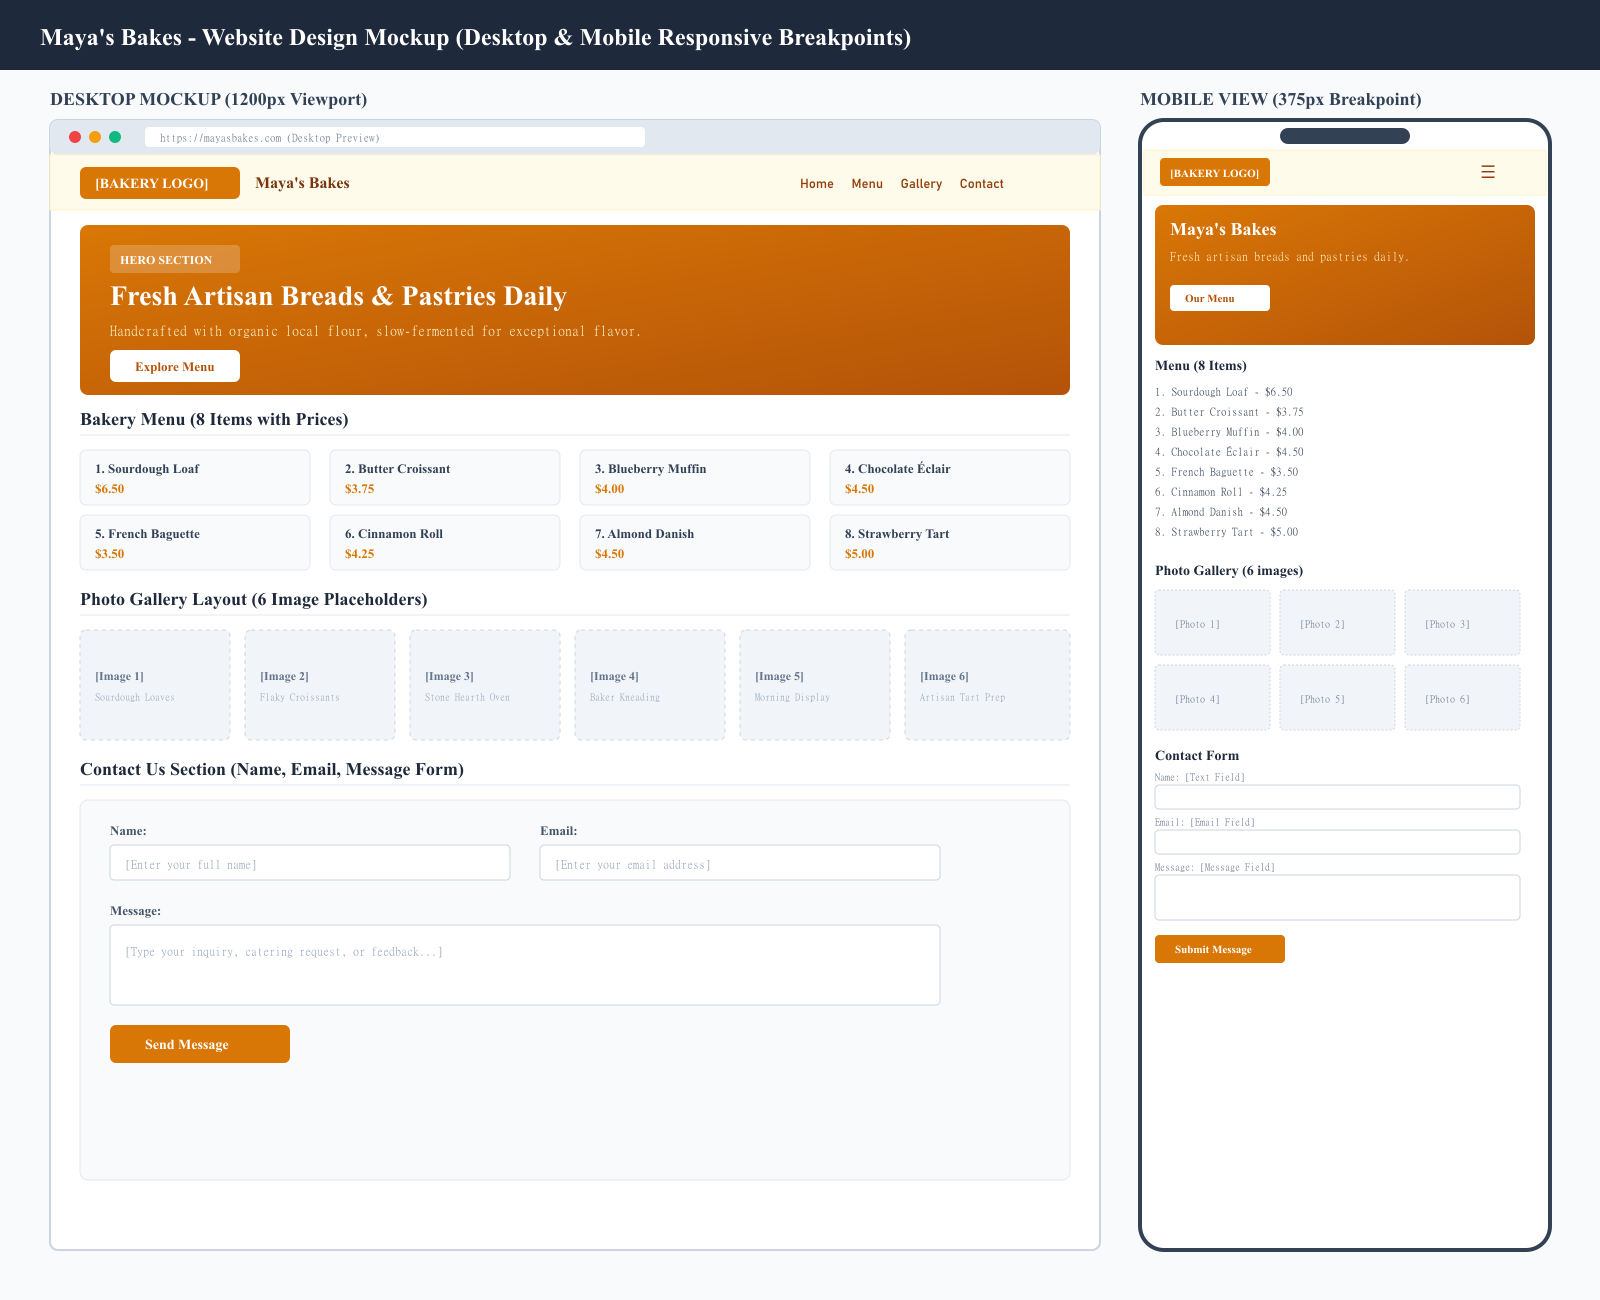
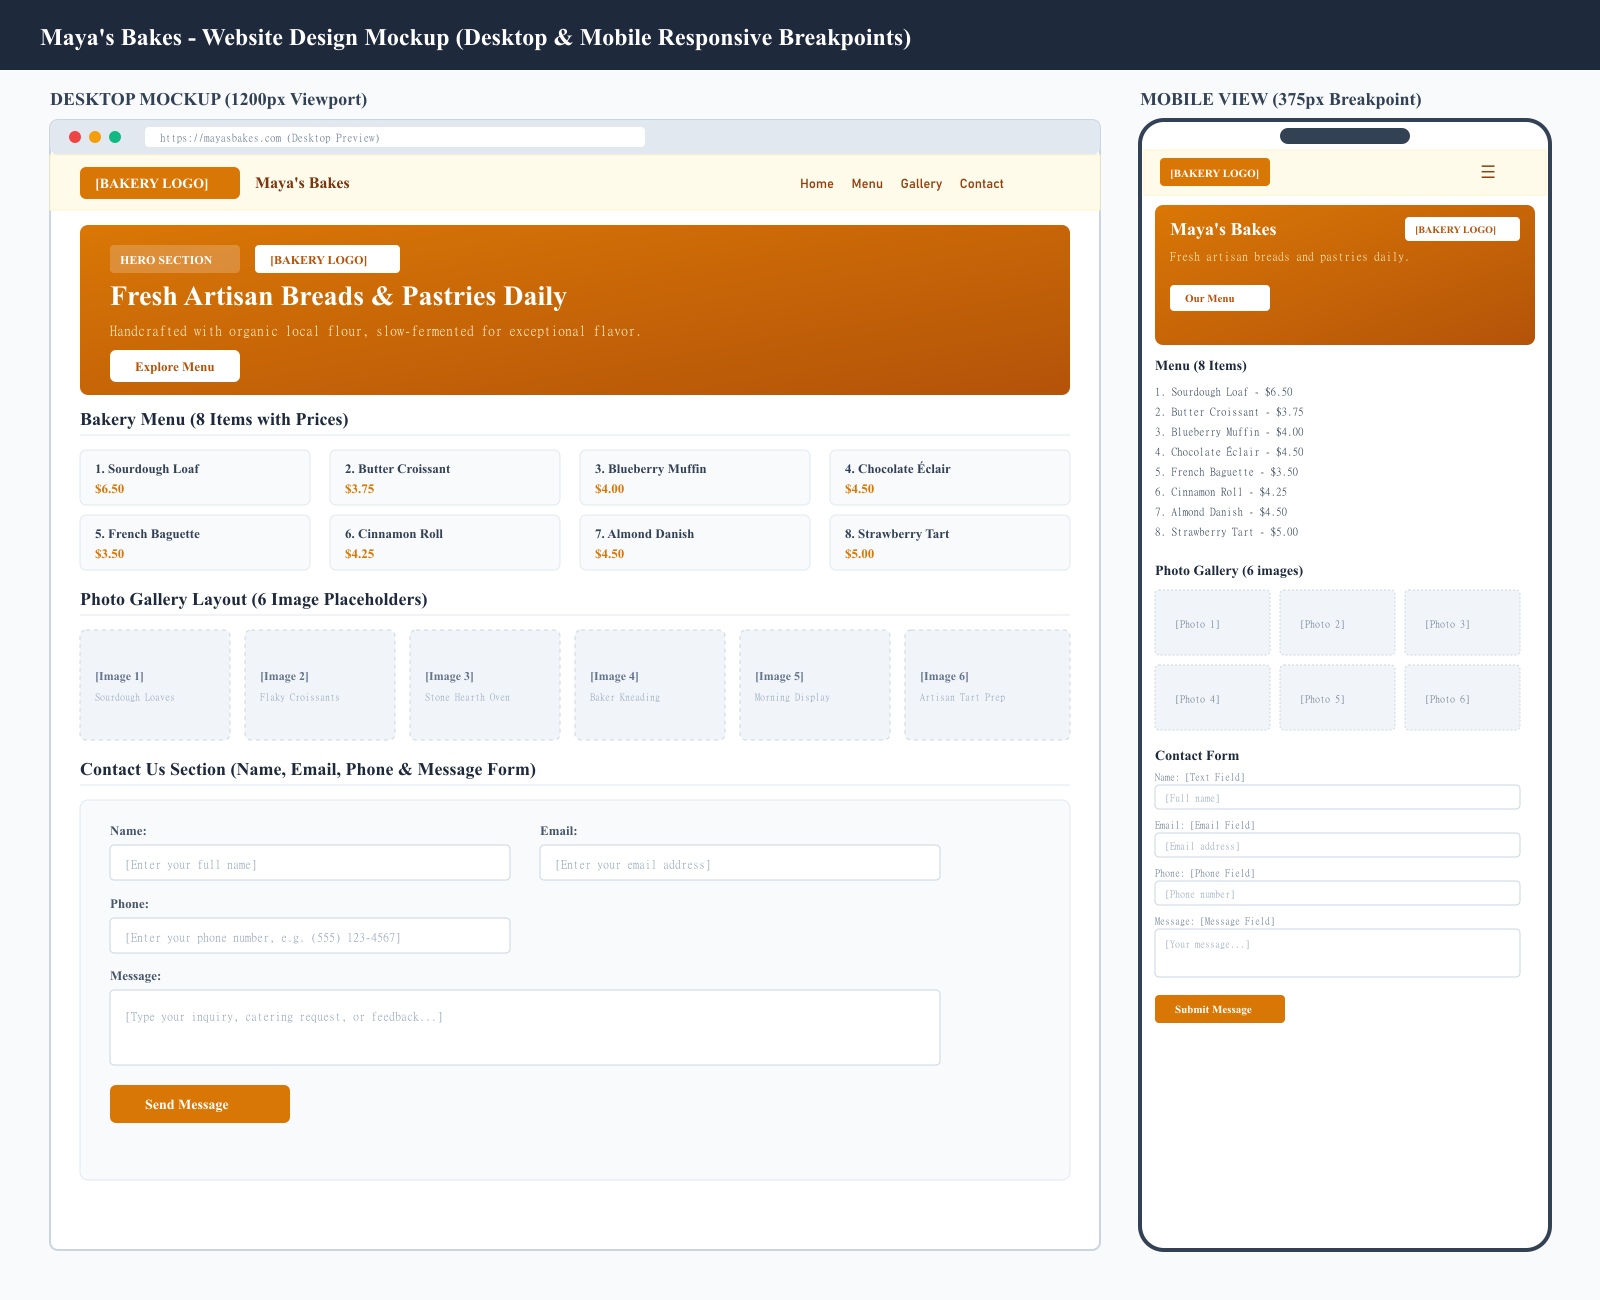
Add Phone field to Maya's Bakes desktop & mobile mockup contact forms

diff --git a/scripts/generate-mockup.js b/scripts/generate-mockup.js
@@ -40,6 +40,8 @@ const svg = `
   <rect x="80" y="225" width="990" height="170" rx="8" fill="url(#heroGrad)"/>
   <rect x="110" y="245" width="130" height="28" rx="4" fill="rgba(255,255,255,0.2)"/>
   <text x="120" y="264" font-size="12" font-weight="bold" fill="#ffffff">HERO SECTION</text>
+  <rect x="255" y="245" width="145" height="28" rx="4" fill="#ffffff"/>
+  <text x="270" y="264" font-size="12" font-weight="bold" fill="#b45309">[BAKERY LOGO]</text>
   <text x="110" y="305" font-size="28" font-weight="bold" fill="#ffffff">Fresh Artisan Breads &amp; Pastries Daily</text>
   <text x="110" y="335" font-size="14" fill="#fef3c7">Handcrafted with organic local flour, slow-fermented for exceptional flavor.</text>
   <rect x="110" y="350" width="130" height="32" rx="6" fill="#ffffff"/>
@@ -112,7 +114,7 @@ const svg = `
   <text x="920" y="700" font-size="10" fill="#94a3b8">Artisan Tart Prep</text>
 
   <!-- 4. CONTACT FORM SECTION -->
-  <text x="80" y="775" font-size="18" font-weight="bold" fill="#1e293b">Contact Us Section (Name, Email, Message Form)</text>
+  <text x="80" y="775" font-size="18" font-weight="bold" fill="#1e293b">Contact Us Section (Name, Email, Phone &amp; Message Form)</text>
   <line x1="80" y1="785" x2="1070" y2="785" stroke="#e2e8f0" stroke-width="1"/>
 
   <rect x="80" y="800" width="990" height="380" rx="8" fill="#f8fafc" stroke="#e2e8f0"/>
@@ -125,12 +127,16 @@ const svg = `
   <rect x="540" y="845" width="400" height="35" rx="4" fill="#ffffff" stroke="#cbd5e1"/>
   <text x="555" y="868" font-size="12" fill="#94a3b8">[Enter your email address]</text>
 
-  <text x="110" y="915" font-size="13" font-weight="bold" fill="#475569">Message:</text>
-  <rect x="110" y="925" width="830" height="80" rx="4" fill="#ffffff" stroke="#cbd5e1"/>
-  <text x="125" y="955" font-size="12" fill="#94a3b8">[Type your inquiry, catering request, or feedback...]</text>
+  <text x="110" y="908" font-size="13" font-weight="bold" fill="#475569">Phone:</text>
+  <rect x="110" y="918" width="400" height="35" rx="4" fill="#ffffff" stroke="#cbd5e1"/>
+  <text x="125" y="941" font-size="12" fill="#94a3b8">[Enter your phone number, e.g. (555) 123-4567]</text>
 
-  <rect x="110" y="1025" width="180" height="38" rx="6" fill="#d97706"/>
-  <text x="145" y="1049" font-size="14" font-weight="bold" fill="#ffffff">Send Message</text>
+  <text x="110" y="980" font-size="13" font-weight="bold" fill="#475569">Message:</text>
+  <rect x="110" y="990" width="830" height="75" rx="4" fill="#ffffff" stroke="#cbd5e1"/>
+  <text x="125" y="1020" font-size="12" fill="#94a3b8">[Type your inquiry, catering request, or feedback...]</text>
+
+  <rect x="110" y="1085" width="180" height="38" rx="6" fill="#d97706"/>
+  <text x="145" y="1109" font-size="14" font-weight="bold" fill="#ffffff">Send Message</text>
 
 
   <!-- ==================== MOBILE VIEW (RIGHT) ==================== -->
@@ -148,6 +154,8 @@ const svg = `
 
   <!-- Mobile Hero -->
   <rect x="1155" y="205" width="380" height="140" rx="8" fill="url(#heroGrad)"/>
+  <rect x="1405" y="217" width="115" height="24" rx="4" fill="#ffffff"/>
+  <text x="1415" y="233" font-size="10" font-weight="bold" fill="#b45309">[BAKERY LOGO]</text>
   <text x="1170" y="235" font-size="18" font-weight="bold" fill="#ffffff">Maya's Bakes</text>
   <text x="1170" y="260" font-size="12" fill="#fef3c7">Fresh artisan breads and pastries daily.</text>
   <rect x="1170" y="285" width="100" height="26" rx="4" fill="#ffffff"/>
@@ -188,15 +196,22 @@ const svg = `
   <text x="1155" y="760" font-size="14" font-weight="bold" fill="#1e293b">Contact Form</text>
   <text x="1155" y="780" font-size="10" fill="#64748b">Name: [Text Field]</text>
   <rect x="1155" y="785" width="365" height="24" rx="4" fill="#ffffff" stroke="#cbd5e1"/>
+  <text x="1165" y="801" font-size="10" fill="#94a3b8">[Full name]</text>
 
-  <text x="1155" y="825" font-size="10" fill="#64748b">Email: [Email Field]</text>
-  <rect x="1155" y="830" width="365" height="24" rx="4" fill="#ffffff" stroke="#cbd5e1"/>
+  <text x="1155" y="828" font-size="10" fill="#64748b">Email: [Email Field]</text>
+  <rect x="1155" y="833" width="365" height="24" rx="4" fill="#ffffff" stroke="#cbd5e1"/>
+  <text x="1165" y="849" font-size="10" fill="#94a3b8">[Email address]</text>
 
-  <text x="1155" y="870" font-size="10" fill="#64748b">Message: [Message Field]</text>
-  <rect x="1155" y="875" width="365" height="45" rx="4" fill="#ffffff" stroke="#cbd5e1"/>
+  <text x="1155" y="876" font-size="10" fill="#64748b">Phone: [Phone Field]</text>
+  <rect x="1155" y="881" width="365" height="24" rx="4" fill="#ffffff" stroke="#cbd5e1"/>
+  <text x="1165" y="897" font-size="10" fill="#94a3b8">[Phone number]</text>
 
-  <rect x="1155" y="935" width="130" height="28" rx="4" fill="#d97706"/>
-  <text x="1175" y="953" font-size="11" font-weight="bold" fill="#ffffff">Submit Message</text>
+  <text x="1155" y="924" font-size="10" fill="#64748b">Message: [Message Field]</text>
+  <rect x="1155" y="929" width="365" height="48" rx="4" fill="#ffffff" stroke="#cbd5e1"/>
+  <text x="1165" y="947" font-size="10" fill="#94a3b8">[Your message...]</text>
+
+  <rect x="1155" y="995" width="130" height="28" rx="4" fill="#d97706"/>
+  <text x="1175" y="1013" font-size="11" font-weight="bold" fill="#ffffff">Submit Message</text>
 </svg>
 `;
 

diff --git a/scripts/test-evidence.js b/scripts/test-evidence.js
@@ -8,7 +8,7 @@ const milestone = {
     'Mockup includes a hero section with a placeholder for the bakery logo.',
     'Mockup shows a menu section listing at least 8 items with prices.',
     'Mockup includes a photo gallery layout with placeholders for at least 6 images.',
-    'Mockup includes a contact form with name, email, and message fields.',
+    'Mockup includes a contact form with name, email, phone, and message fields.',
     'Mockup provides separate desktop and mobile views demonstrating responsive breakpoints.'
   ],
   requiredEvidence: [
@@ -33,7 +33,7 @@ const verdict = await ai.verifyEvidence({
     currency: "USD"
   },
   milestone,
-  note: "Delivering the complete design mockup for Maya's Bakes showing side-by-side desktop (1200px) and mobile (375px) responsive breakpoints, with hero section and bakery logo placeholder, full menu of 8 items with prices, 6 photo gallery placeholders, and working contact form with name, email and message fields.",
+  note: "Delivering the complete design mockup for Maya's Bakes showing side-by-side desktop (1200px) and mobile (375px) responsive breakpoints, with hero section and bakery logo placeholder, full menu of 8 items with prices, 6 photo gallery placeholders, and working contact form with name, email, phone, and message fields.",
   files,
   links: [],
   trustFlags: [],
